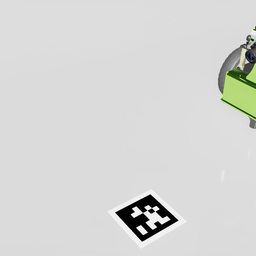
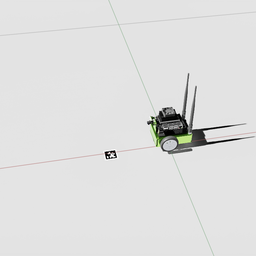
Ricavo intrinsics camera

Changed region(s): [[0.5625, 0.0938, 1.0, 0.625], [0.4375, 0.75, 0.7188, 0.9688], [0.4062, 0.5625, 0.4688, 0.625]]

diff --git a/src/test_3/test_3.py b/src/test_3/test_3.py
@@ -11,9 +11,34 @@ class Constants:
     CONFIG = {"width": 1280, "height": 720, "sync_loads": True, "headless": False, "renderer": "RayTracedLighting"}
     SCENE_PATH = "src/scene_jetbot_apriltag.usd"
     JETSON_PRIM_PATH = "/World/jetbot"
-    CAMERA_PRIM_PATH = JETSON_PRIM_PATH + "/chassis/rgb_camera/jetbot_camera"
+    CAMERA_PRIM_PATH = JETSON_PRIM_PATH + "/chassis/rgb_camera/jetbot_cam"
     COMMAND_MANUAL_PATH = "src/test_3/velvec.npy"
     IMAGE_PATH = "src/test_3/test.png"
+
+class Instrinsics:
+    def __init__(self, camera):
+        width, height = camera.get_resolution() 
+        focal_length = camera.get_focal_length()
+        horiz_aperture = camera.get_horizontal_aperture()
+        vert_aperture = height/width * horiz_aperture
+
+        self.fx = width * focal_length / horiz_aperture
+        self.fy = height * focal_length / vert_aperture
+        self.cx = width/2
+        self.cy = height/2
+
+# fx: 380.6691503796936, fy: 380.6691503796936, cx: 512.0, cy: 512.0
+
+
+        # self.cx = camera.get_resolution()[0]/2
+        # self.f = self.cx / np.tan(camera.get_vertical_fov() / 2)
+        # self.cy = camera.get_resolution()[1]/2
+        
+# f: 380.6691503796936, cx: 512.0, cy: 512.0
+
+# Viene uguale con entrambi i metodi
+
+
 
 sim = SimulationApp(launch_config=Constants.CONFIG)
 
@@ -85,7 +110,8 @@ class MyJetbot:
         self.controller = DifferentialController(name="simple_control", wheel_radius=0.03, wheel_base=0.1125)
         self.camera = Camera(prim_path=Constants.CAMERA_PRIM_PATH, resolution=(1024, 1024))
         self.camera.initialize()
-        print(self.camera.get_aspect_ratio())
+        self.intrinsics = Instrinsics(self.camera)
+        print(f"fx: {self.intrinsics.fx}, fy: {self.intrinsics.fy}, cx: {self.intrinsics.cx}, cy: {self.intrinsics.cy}")
         
     def do_action(self, message):
         velvec = None

diff --git a/appunti/appunti_isaac.md b/appunti/appunti_isaac.md
@@ -441,3 +441,5 @@ La lentezza può essere ridotta se si utilizza la cache, attivabile dal launcher
 ### Lettura apriltags nell'immagine
 
 1. Installo opencv con ```isaac_py -m pip install opencv-python```
+2. Ho modificato la camera predefinita del jetbot perché l'immagine era rettangolare e stretta. Ho incluso una nuova camera ed ho regolato i parametri per adattarli alle mie necessità.
+3. Installo pyapriltags https://pypi.org/project/pyapriltags/
